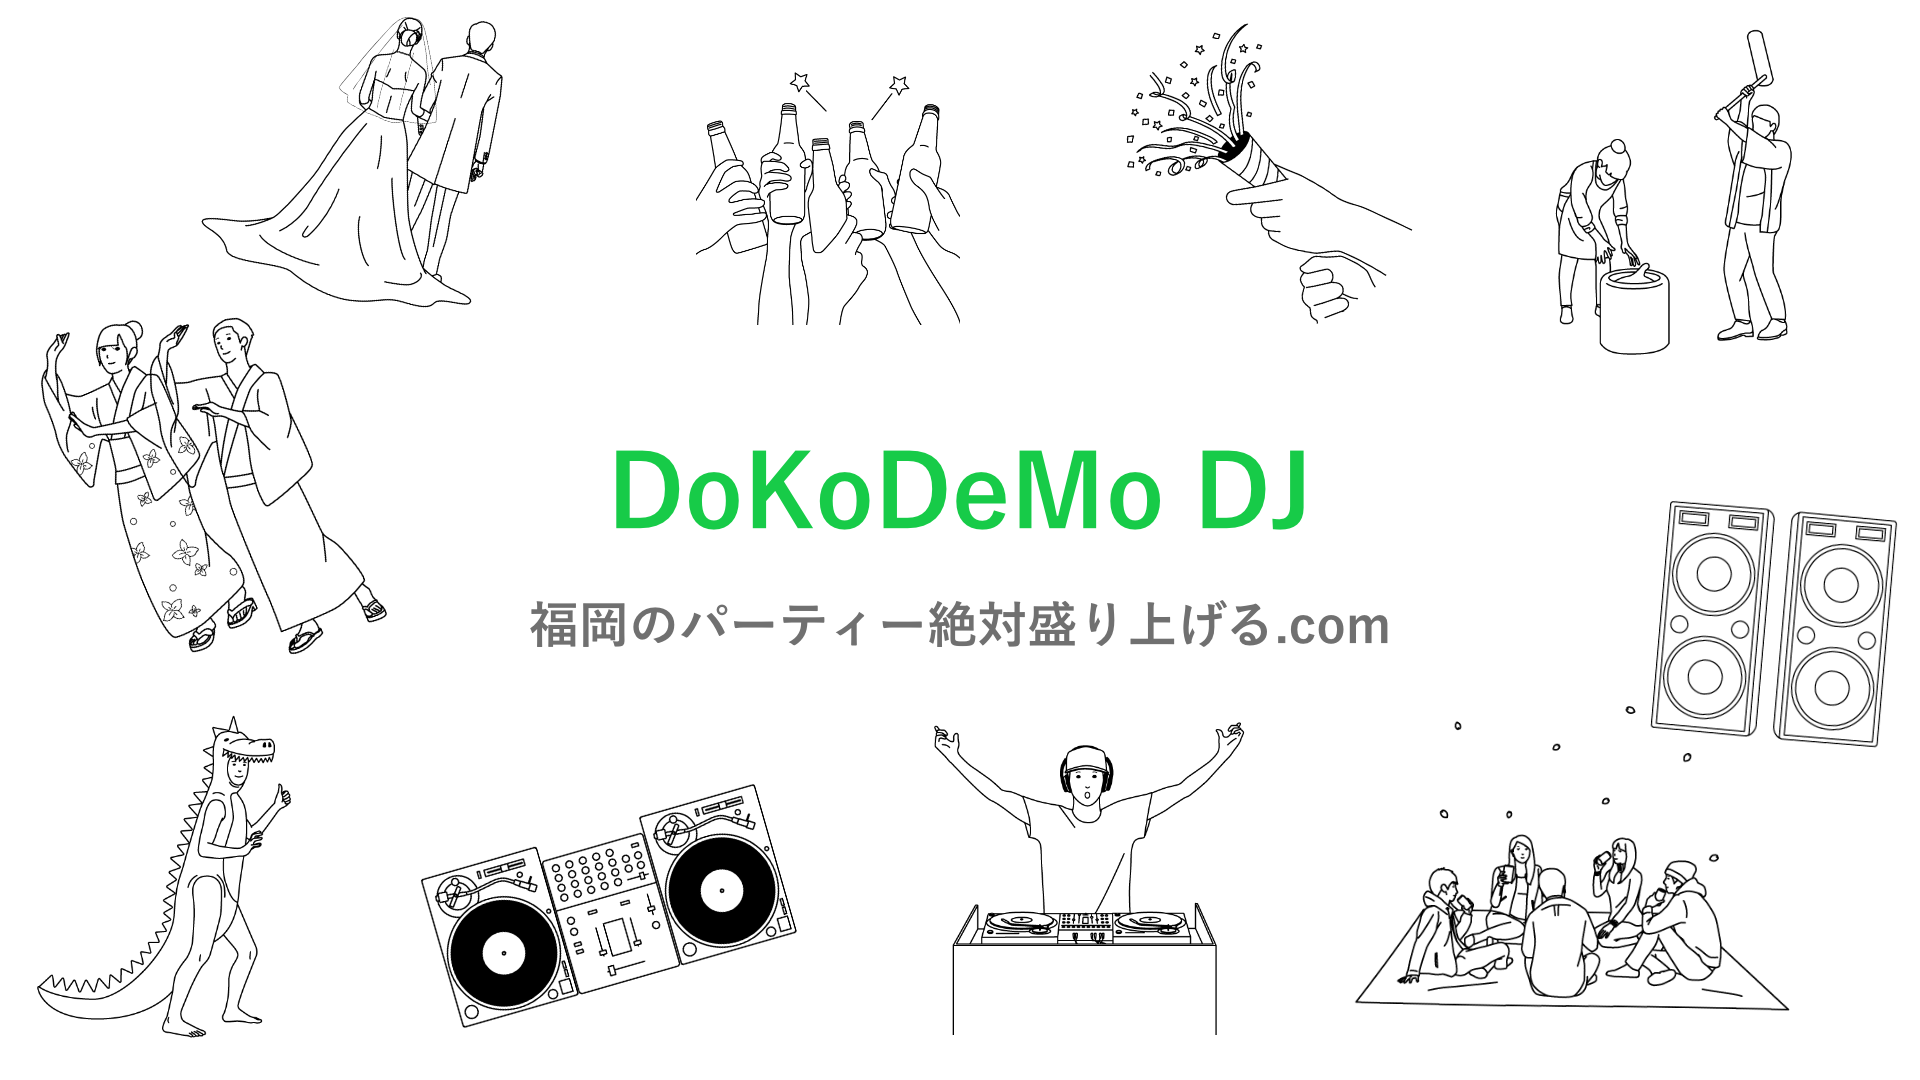
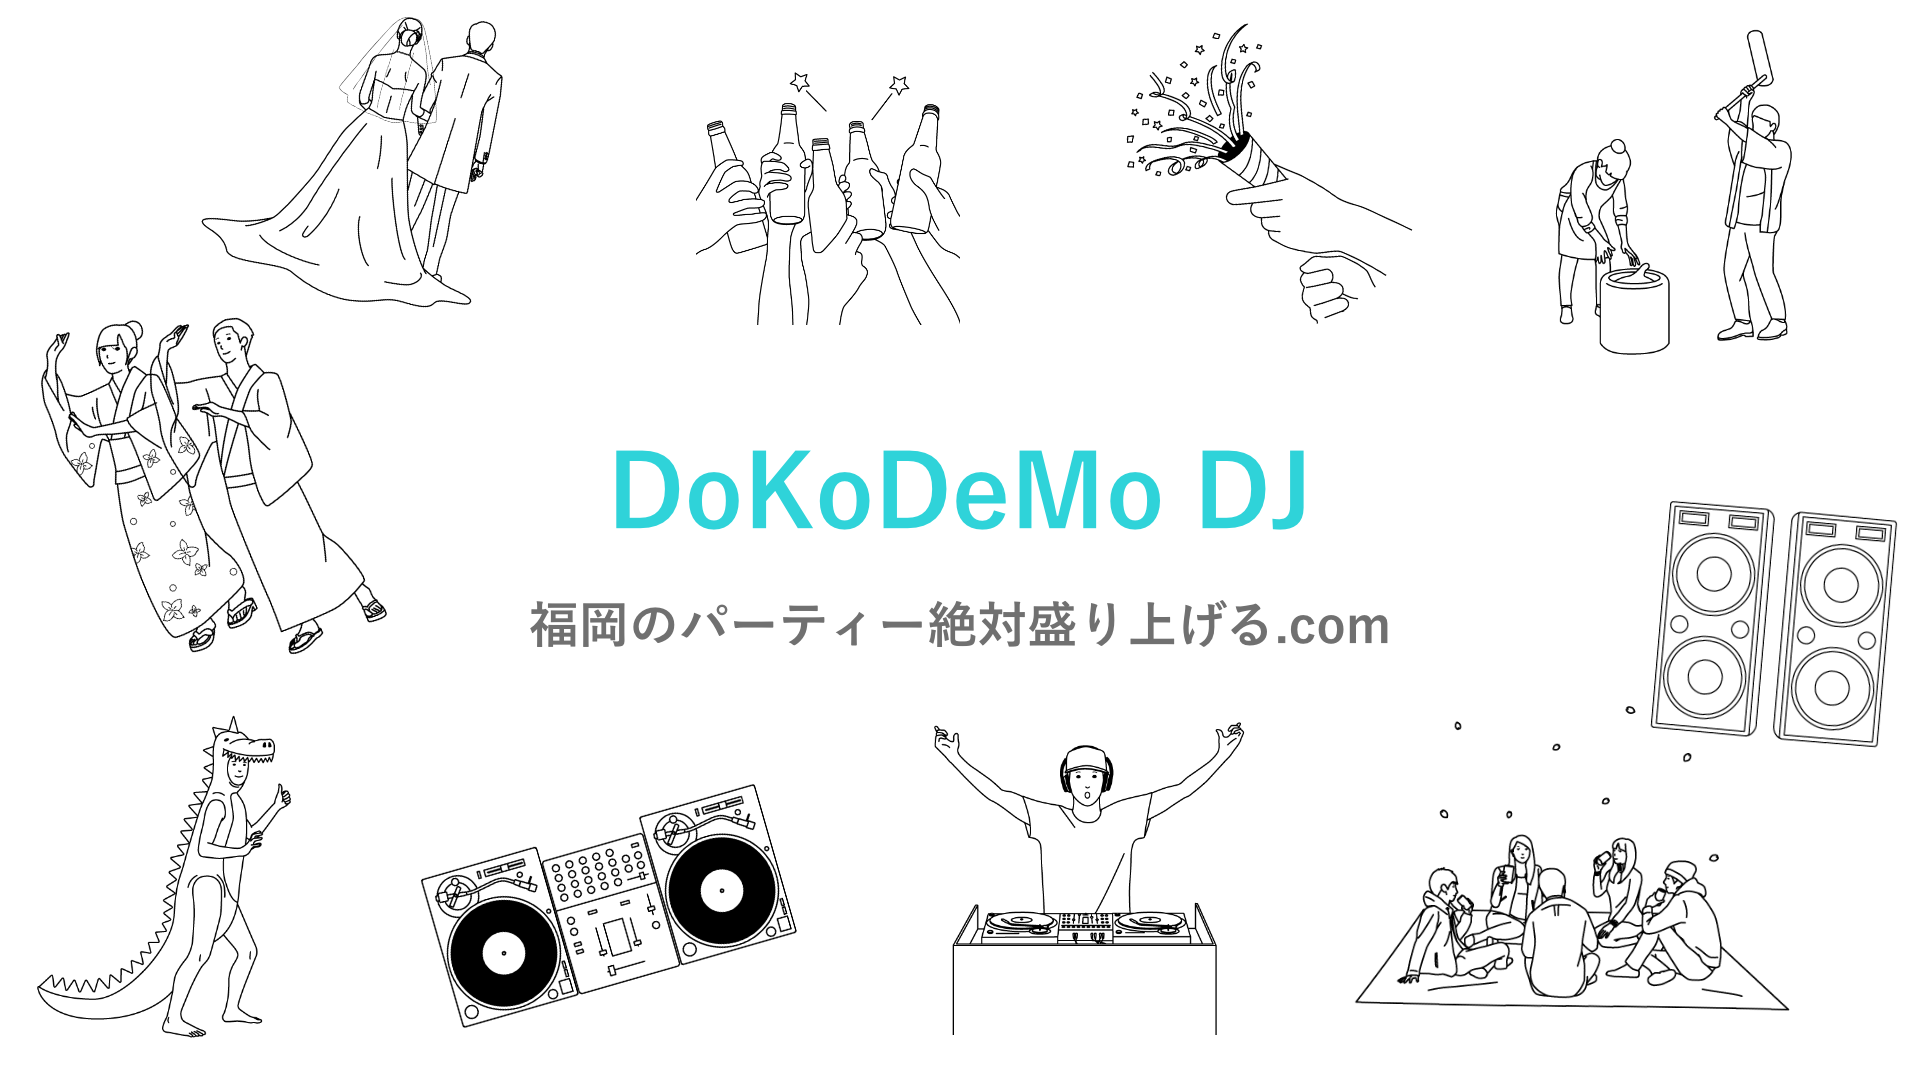
コードの追加

Changed region(s): [[0.3125, 0.3972, 0.6875, 0.4889]]

diff --git a/css/style_top.css b/css/style_top.css
@@ -428,7 +428,7 @@ form {
     width: 280px;
     display: block;
     letter-spacing: 0.05em;
-    background: #17CB48;
+    background: #2FD3D9;
     color: #fff;
     font-weight: bold;
     font-size: 20px;
